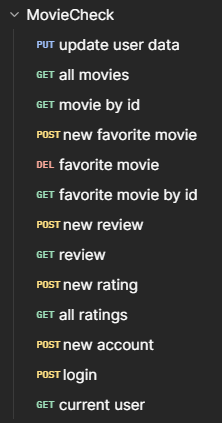
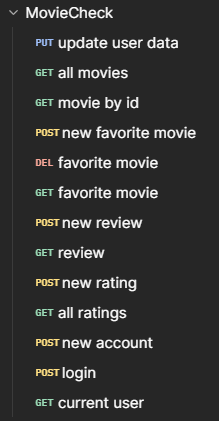
poprawka

diff --git a/Doc/API.md b/Doc/API.md
@@ -16,7 +16,7 @@ Aplikacja będzie również umożliwiała przeglądanie listy filmów, wyszukiwa
 
 ---
 
-![Postman](./img/postman.png)
+![Postman](./img/POSTMAN.png)
 
 
 ## Autentykacja i Użytkownicy